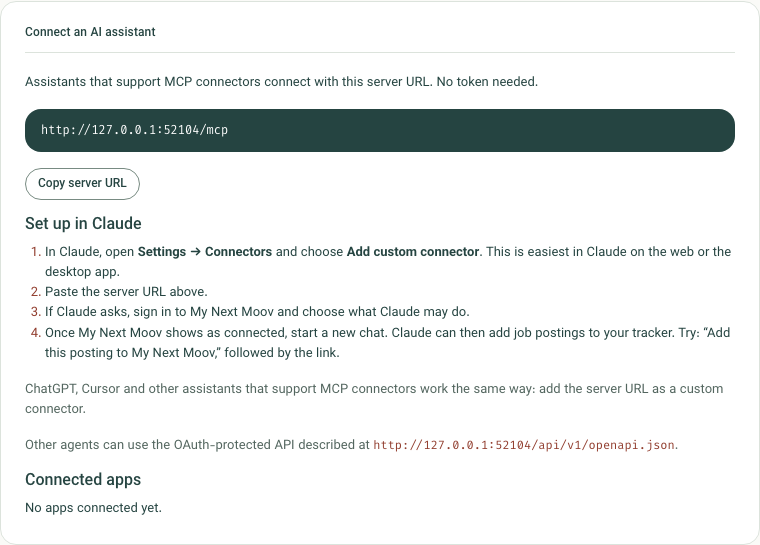
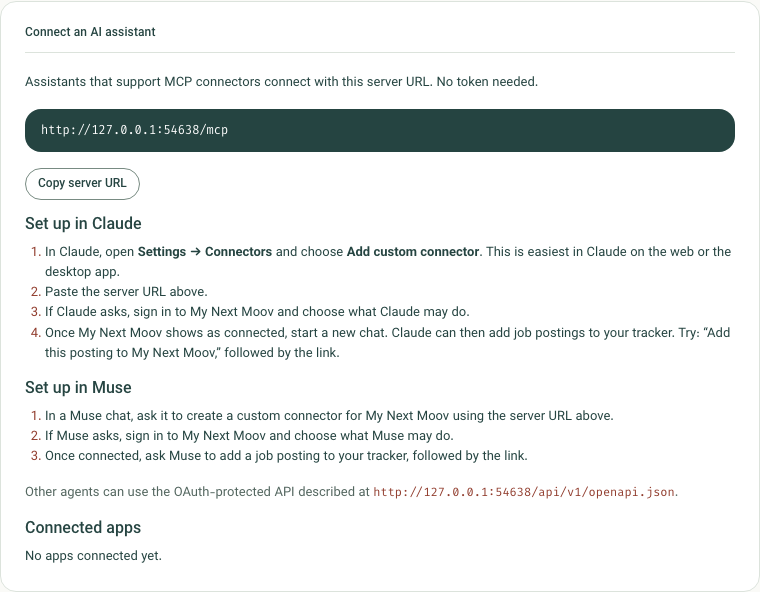
Add Muse connector steps; drop ChatGPT from the setup copy
Agent access and the setup guide now cover Claude and Muse. Muse's
steps follow Meta's help: ask Muse in a chat to create a custom
connector with the server URL, then sign in. The ChatGPT and Cursor
note is removed.

Claude-Session: https://claude.ai/code/session_01CG2H8NQyyfMS8e4z9QVwjP

diff --git a/frontend/src/AgentAccess.jsx b/frontend/src/AgentAccess.jsx
@@ -208,7 +208,12 @@ export function AgentAccess({ reauthRequired, onBusyChange, onConnected }) {
           <li>If Claude asks, sign in to My Next Moov and choose what Claude may do.</li>
           <li>Once My Next Moov shows as connected, start a new chat. Claude can then add job postings to your tracker. Try: “Add this posting to My Next Moov,” followed by the link.</li>
         </ol>
-        <p className="form-text">ChatGPT, Cursor and other assistants that support MCP connectors work the same way: add the server URL as a custom connector.</p>
+        <h3 className="h6">Set up in Muse</h3>
+        <ol>
+          <li>In a Muse chat, ask it to create a custom connector for My Next Moov using the server URL above.</li>
+          <li>If Muse asks, sign in to My Next Moov and choose what Muse may do.</li>
+          <li>Once connected, ask Muse to add a job posting to your tracker, followed by the link.</li>
+        </ol>
         <p className="form-text">Other agents can use the OAuth-protected API described at <code>{base}/api/v1/openapi.json</code>.</p>
         <h3 className="h6 mt-3">Connected apps</h3>
         {!loading && !connections.length && <p className="mb-0">No apps connected yet.</p>}
@@ -236,7 +241,7 @@ export function AgentAccess({ reauthRequired, onBusyChange, onConnected }) {
       ) : <TokenCreateForm busy={busy} onCreate={create} />}
       <section className="form-panel mb-4" aria-label="Agent setup instructions">
         <h2 className="section-heading mt-0">Connect your agent</h2>
-        <p>If your agent supports MCP connectors (Claude, Claude Code and many others do), the server URL under Connect an AI assistant is the easiest route: no token needed. For any other agent, use a token:</p>
+        <p>If your agent supports MCP connectors (Claude, Claude Code and Muse do), the server URL under Connect an AI assistant is the easiest route: no token needed. For any other agent, use a token:</p>
         <ol>
           <li>Create a token above and copy it. It is shown once.</li>
           <li>Save it where your agent keeps secrets: an environment variable or secret named <code>NEXTMOVE_INGEST_TOKEN</code>, or a private file at <code>{TOKEN_FILE}</code> on the computer the agent runs on. Don’t paste it into the chat.</li>

diff --git a/frontend/tests/oauth-connect.spec.js b/frontend/tests/oauth-connect.spec.js
@@ -38,6 +38,8 @@ test("an agent's OAuth request signs in, asks for consent, returns a code, and s
   await expect(app).toContainText(`${path}mcp`);
   await expect(app.getByRole("heading", { name: "Set up in Claude" })).toBeVisible();
   await expect(app).toContainText("Add custom connector");
+  await expect(app.getByRole("heading", { name: "Set up in Muse" })).toBeVisible();
+  await expect(app).not.toContainText("ChatGPT");
   await expect(app.getByRole("article")).toContainText("Phone assistant");
   await expect(app.getByRole("article")).toContainText("See roles");
   await app.getByRole("button", { name: "Disconnect Phone assistant" }).click();

diff --git a/docs/AGENT_SETUP.md b/docs/AGENT_SETUP.md
@@ -10,8 +10,8 @@ sign-up. It explains these options and links to Agent access with
 
 ## Option 1: a connector (no token)
 
-Use this if your agent supports MCP connectors. Claude, Claude Code, ChatGPT,
-Cursor and many others do.
+Use this if your agent supports MCP connectors, such as Claude, Claude Code or
+Muse.
 
 To set it up in Claude:
 
@@ -24,8 +24,12 @@ To set it up in Claude:
 4. Once My Next Moov shows as connected, start a new chat. Claude can then add job
    postings to your tracker. Try: "Add this posting to My Next Moov," followed by the link.
 
-Other assistants that support MCP connectors work the same way: add the server URL
-as a custom connector and sign in.
+To set it up in Muse:
+
+1. In a Muse chat, ask it to create a custom connector for My Next Moov using the
+   server URL `https://mynextmoov.com/mcp`.
+2. If Muse asks, sign in to My Next Moov and choose what Muse may do.
+3. Once connected, ask Muse to add a job posting to your tracker, followed by the link.
 
 The app then appears under **Connected apps** on Agent access, where you can
 disconnect it at any time.
